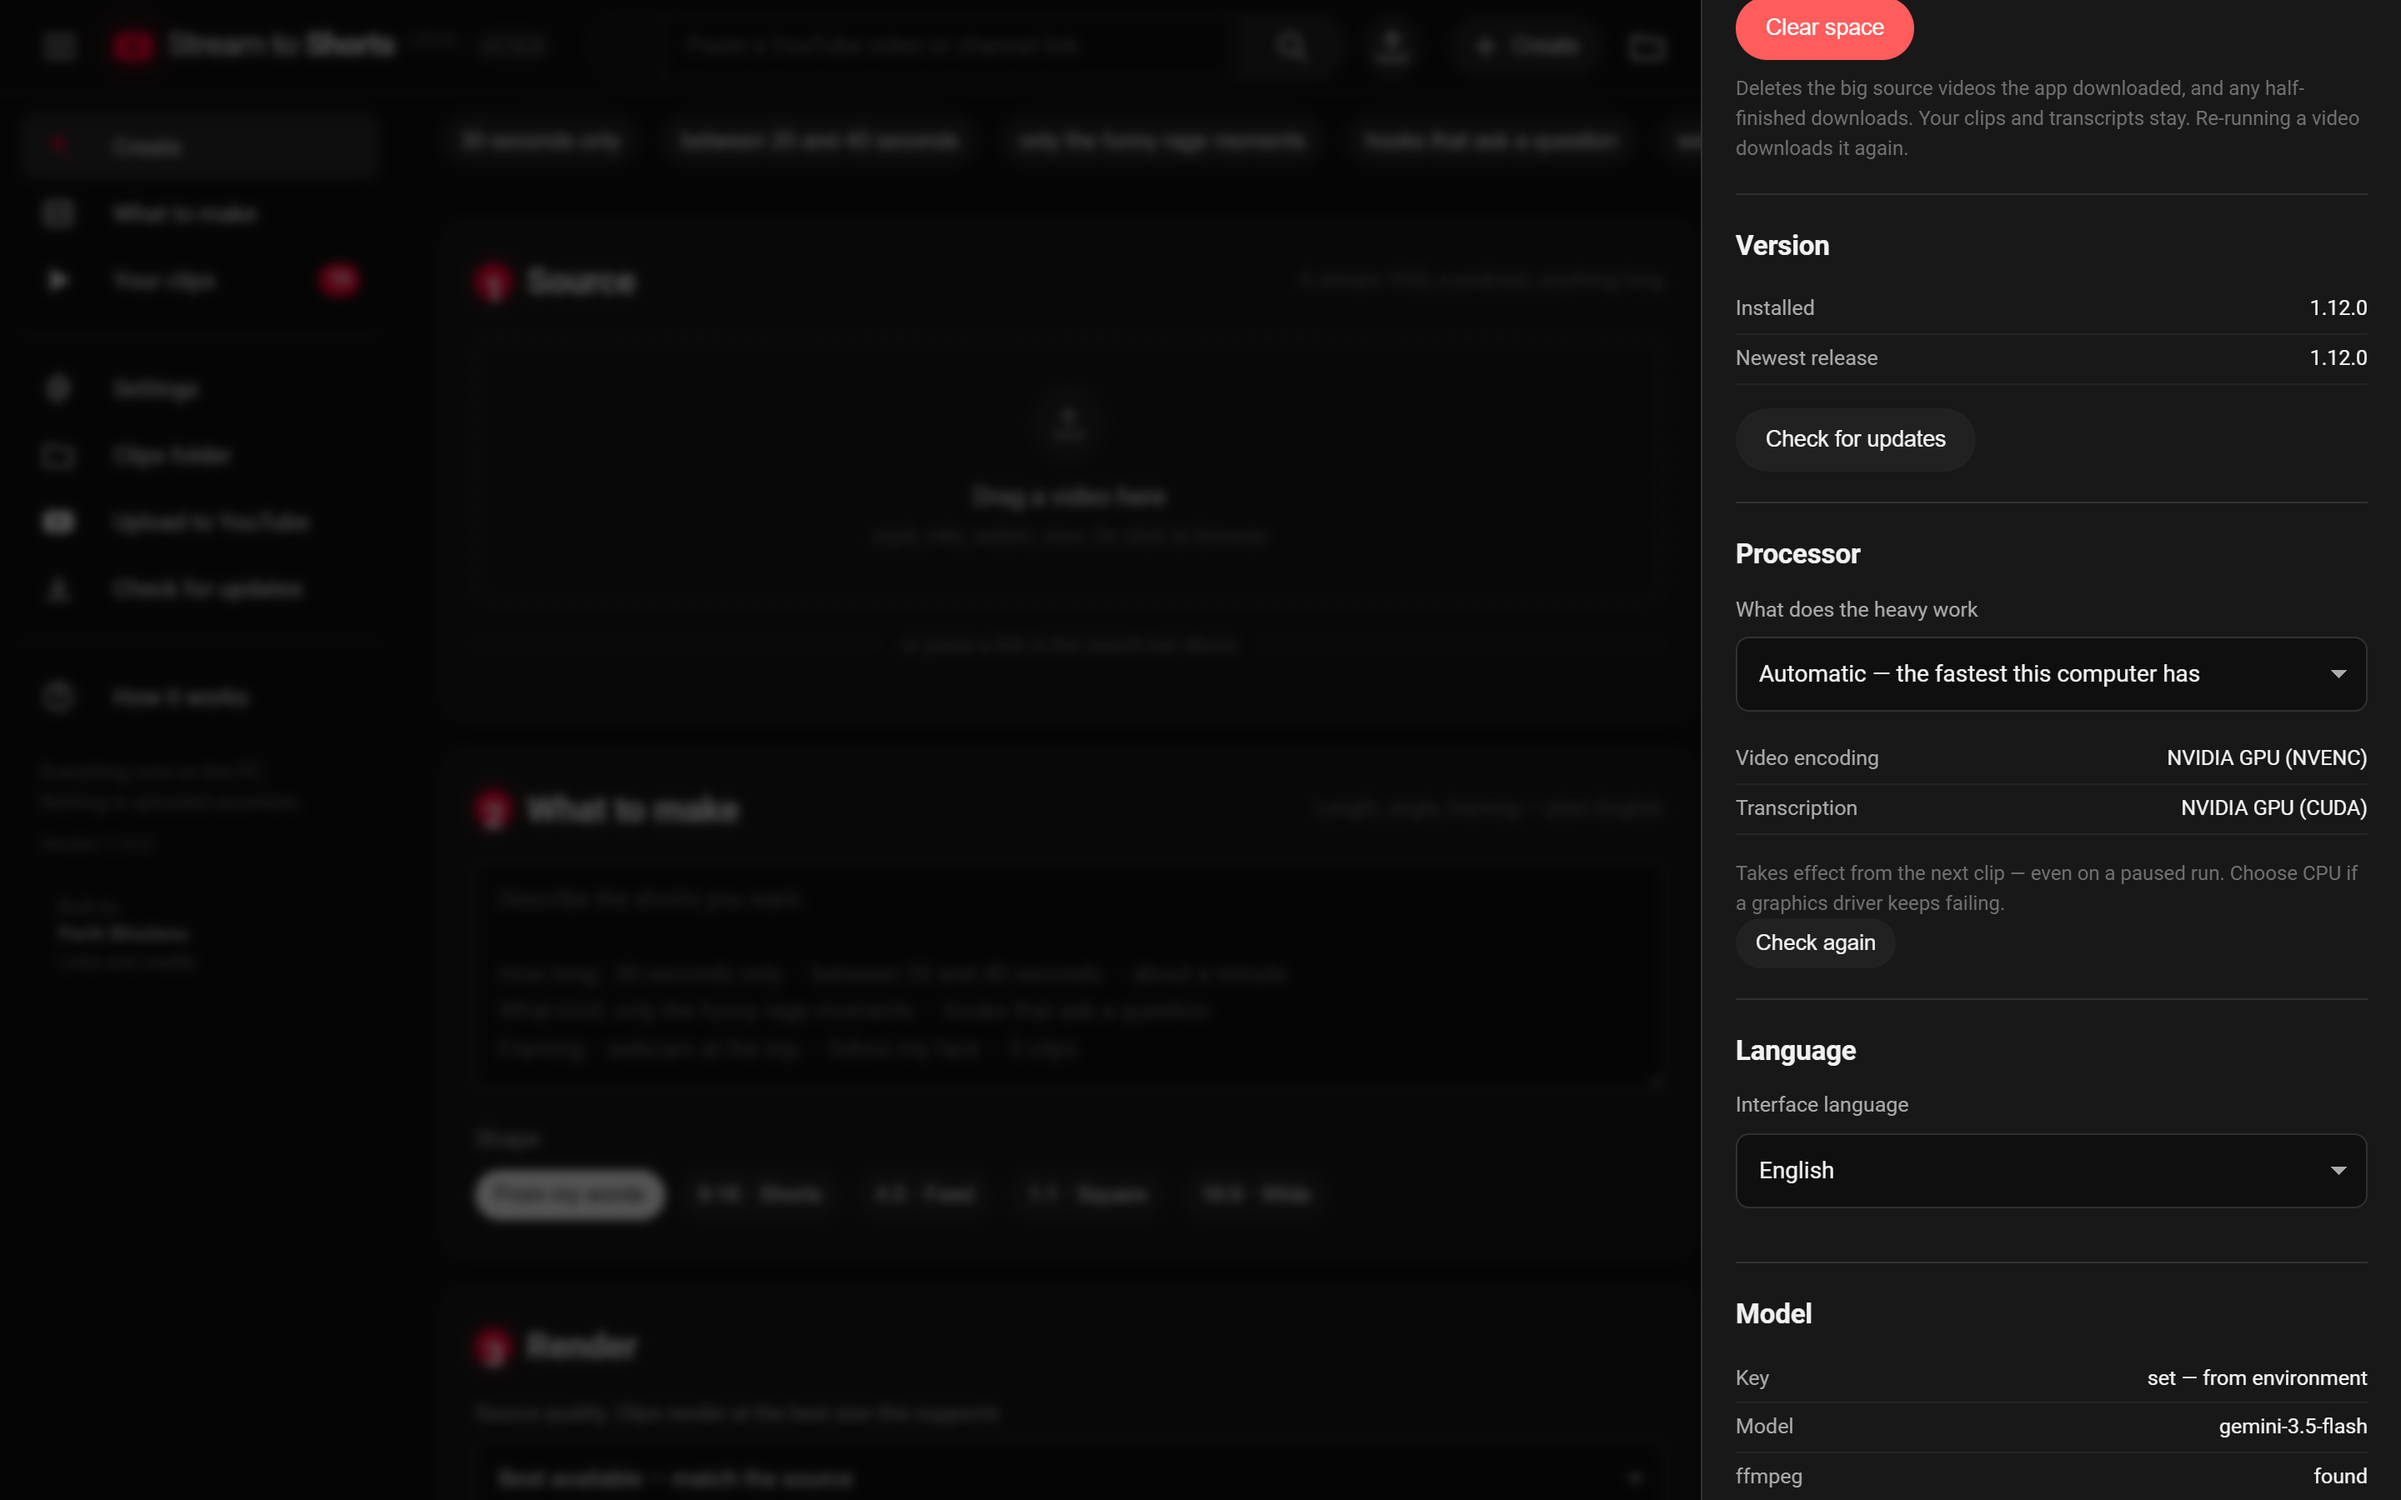
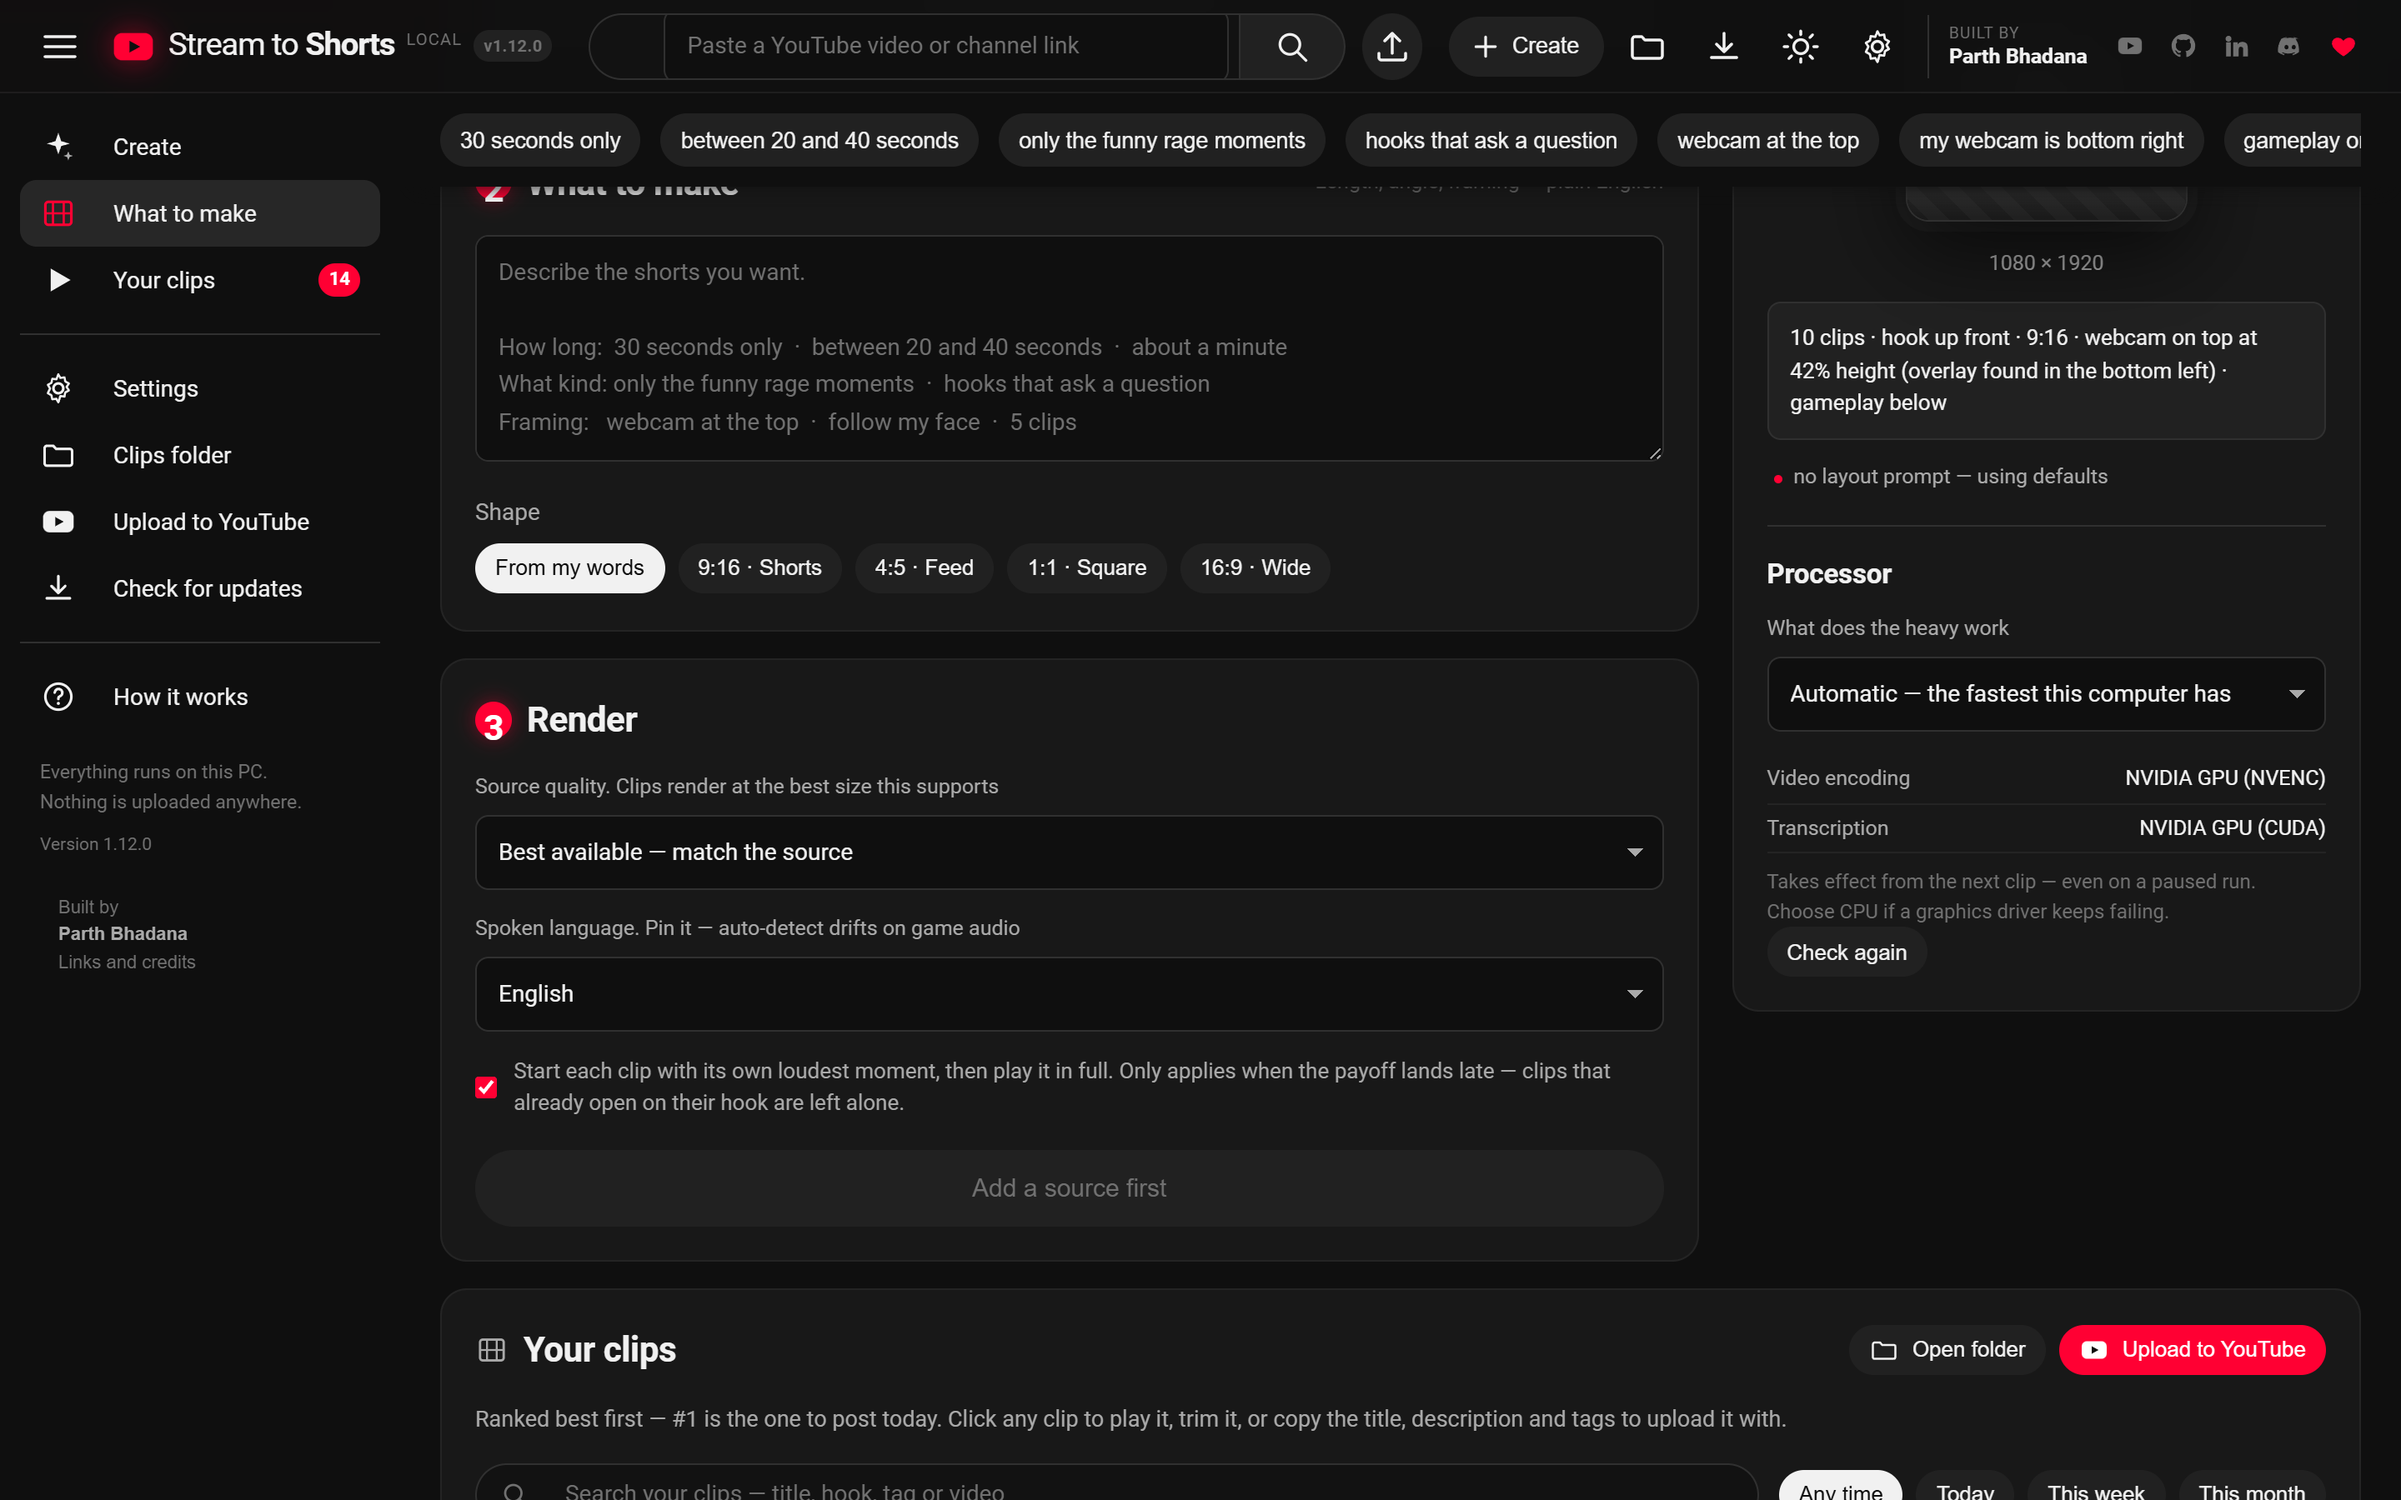
docs: the Processor choice lives under the live preview now

diff --git a/README.md b/README.md
@@ -100,7 +100,8 @@ transcription and face tracking too, on the CPU or the GPU.
 
 ### Use the GPU — or don't
 
-**Settings → Processor** decides what does the heavy work: **Automatic** (the
+**Processor**, right under the live preview on the Create page, decides what
+does the heavy work: **Automatic** (the
 fastest thing this computer really has), **GPU**, or **CPU only**.
 
 On Automatic, video is encoded on the graphics chip — NVIDIA, Intel, AMD or a
@@ -111,7 +112,7 @@ failing, and the panel says in plain words what is being used and why. If a
 graphics driver keeps misbehaving, **CPU only** never touches it. The choice
 applies from the next clip, even on a paused run.
 
-<img src="assets/screenshots/06-processor.png" alt="Settings, Processor section: Automatic selected, video encoding on the NVIDIA GPU (NVENC), transcription on the NVIDIA GPU (CUDA)" width="880">
+<img src="assets/screenshots/06-processor.png" alt="The Processor box under the live preview: Automatic selected, video encoding on the NVIDIA GPU (NVENC), transcription on the NVIDIA GPU (CUDA)" width="880">
 
 ### Your clips folder is readable
 
@@ -890,7 +891,7 @@ The knobs that change output quality most, in order:
 | `FRAMES_PER_CLIP` | `shorts_generator/vision.py` | Frames shown to the vision model per clip, `4` by default |
 | `TITLE_OPTIONS` | `shorts_generator/seo.py` | Titles written per clip for you to choose from, `5` by default |
 | `STAGE_ATTEMPTS` / `CLIP_ATTEMPTS` | `webapp/jobs.py` | How many times a stage, or one clip's render, is tried before a run gives up, `3` each |
-| Processor | Settings, or `PROCESSOR` in `.env` | `auto` (default), `gpu` or `cpu` — what encodes video and runs transcription. `LOCAL_WHISPER_DEVICE`, if set, still pins transcription |
+| Processor | Under the live preview, or `PROCESSOR` in `.env` | `auto` (default), `gpu` or `cpu` — what encodes video and runs transcription. `LOCAL_WHISPER_DEVICE`, if set, still pins transcription |
 | `SCORE_THRESHOLD` | `shorts_generator/faces.py` | How sure YuNet must be to count a face, `0.7`. Raise it if a crop keeps catching faces in the game |
 | Provider | Settings | Gemini, Groq or OpenAI. Add a **free Groq key** as a fallback so a busy Gemini cannot end a run |
 | `LOCAL_WHISPER_MODEL` | `.env` | `base` is plenty for ranking. `small` reads better and hallucinates less — and on a GPU it is *faster* than `base`, so use it if you have one |

diff --git a/HOW_IT_WORKS.md b/HOW_IT_WORKS.md
@@ -845,7 +845,9 @@ The setting is `PROCESSOR` — `auto` (the default: whatever works fastest),
 touch one) — read live through `config.current_processor()`, so a change made
 while a run is paused applies from the next clip. `LOCAL_WHISPER_DEVICE`, the
 older developer knob, still outranks it for transcription when set. The
-Settings panel reads `GET /api/processor`; while a run is paused and the encoder
+Processor box under the live preview reads `GET /api/processor` when the page
+opens and again after every run, and "Check again" re-runs the encoder tests
+for someone who has just installed a driver; while a run is paused and the encoder
 has never been probed, it reports it as unknown rather than starting a test
 encode that would wait on the pause.
 
@@ -1642,10 +1644,10 @@ Reads `/api/settings` and `/api/usage` to render:
   choice is made with the number in view.
 - **Budget meters** — requests used today vs the daily cap, and time until reset
 - Save-location picker and the disk cleanup scanner
-- **Processor** — Automatic, GPU or CPU only, with what video encoding and
-  transcription will actually run on and why, read from `GET /api/processor`
-  each time the drawer opens ([§7.5](#75-which-processor--accelpy)). "Check
-  again" re-runs the encoder tests, for someone who has just installed a driver
+
+The Processor choice is deliberately *not* here. It decides how fast the render
+about to be started will be, so it lives with the render: under the live
+preview on the Create page ([§7.5](#75-which-processor--accelpy)).
 
 If a setting is pinned by an environment variable, the API reports
 `provider_pinned` / `model_pinned` and the UI says so — the difference between a
